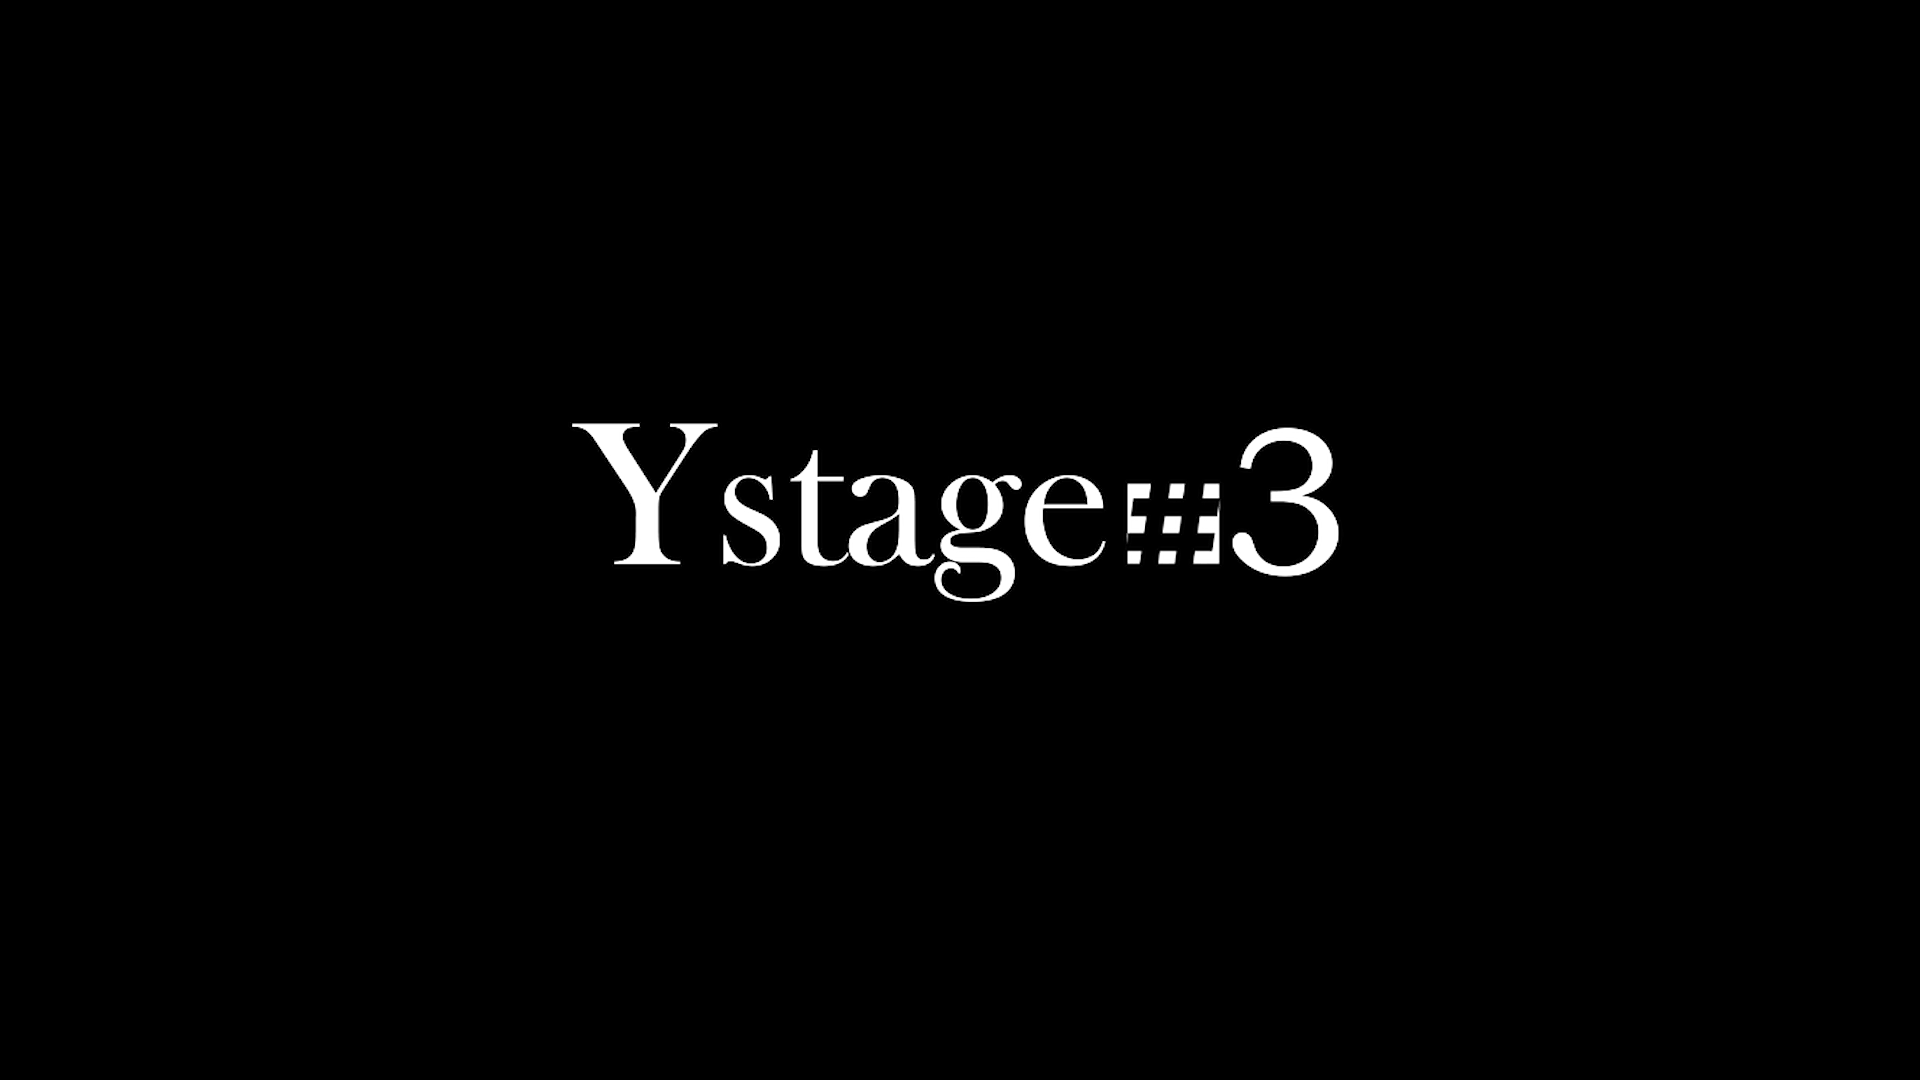
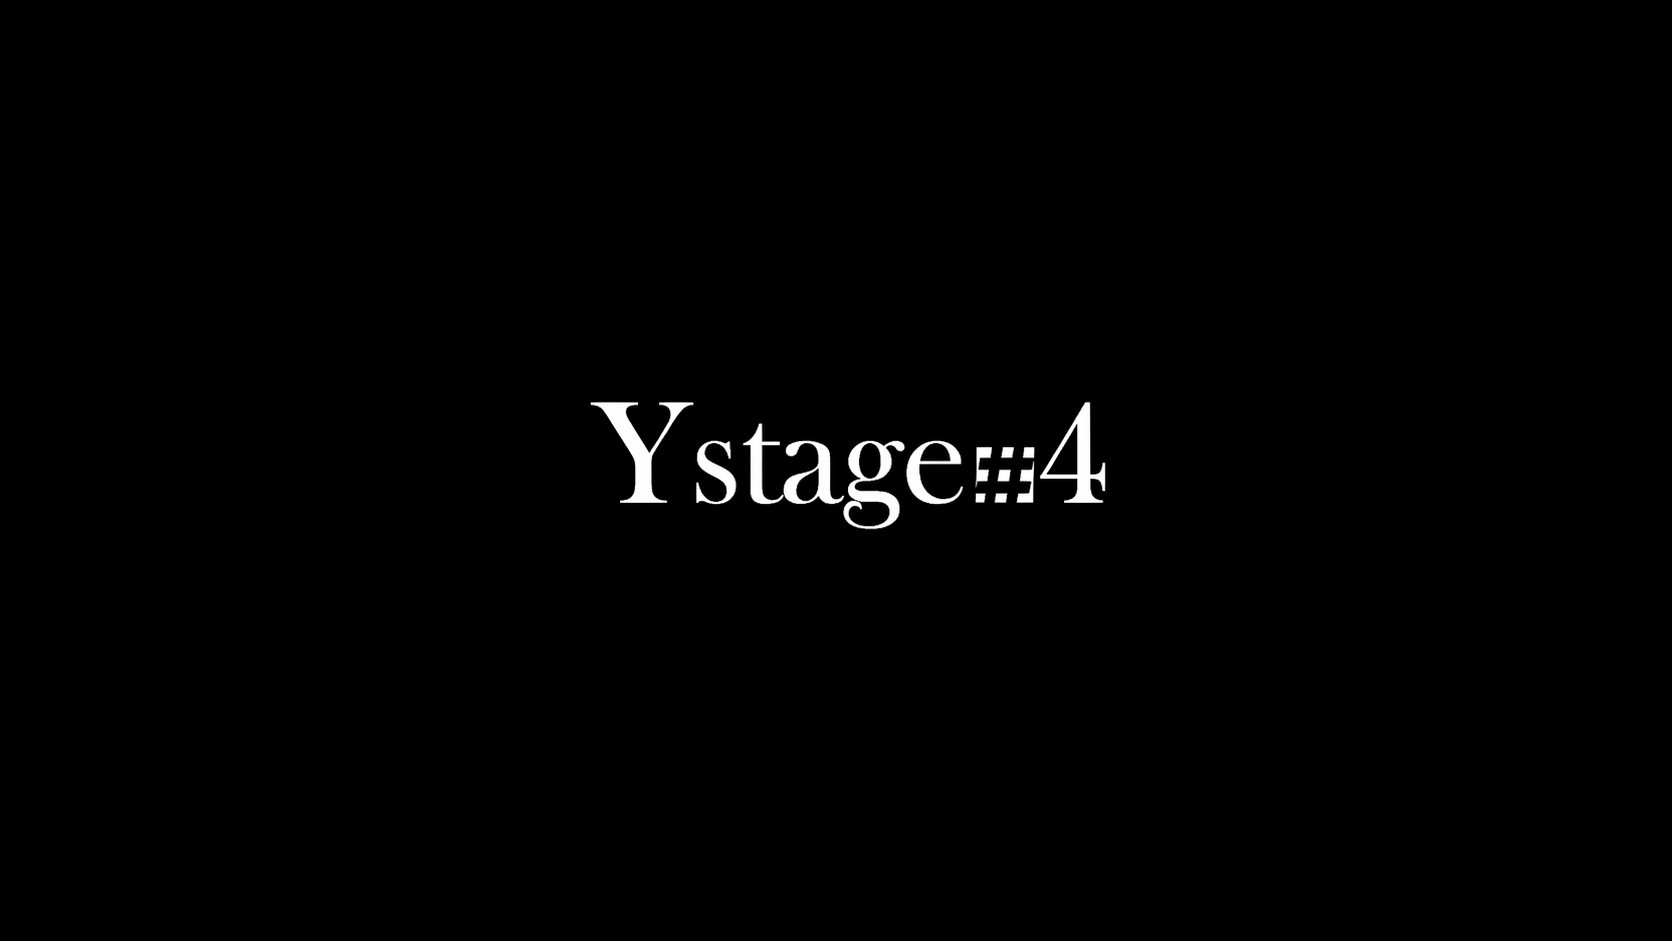
Y.Stage 4，即将开始

Changed region(s): [[0.2799, 0.3698, 0.7153, 0.5855]]

diff --git a/html/index.html b/html/index.html
@@ -14,9 +14,9 @@
     <div class="container">
       <!-- 主容器 -->
       <header>
-        <h1>2025 Y.Stage 3</h1>
+        <h1>2025 Y.Stage 4</h1>
         <!-- 网站名称 -->
-        <p>欢迎来到 2025年异度沸腾WOTA艺团 Y.Stage 3 比赛现场</p>
+        <p>欢迎来到 2025年异度沸腾WOTA艺团 Y.Stage 4 比赛现场</p>
         <!-- 欢迎信息 -->
       </header>
       <main>

diff --git a/html/setting.html b/html/setting.html
@@ -3,13 +3,13 @@
   <head>
     <meta charset="UTF-8" />
     <meta name="viewport" content="width=device-width, initial-scale=1.0" />
-    <title>Y.Stage 3 - 设置</title>
+    <title>Y.Stage 4 - 设置</title>
     <link rel="stylesheet" href="../css/setting.css" />
   </head>
   <body>
     <div class="container">
       <header>
-        <h1>Y.Stage 3 设置中心</h1>
+        <h1>Y.Stage 4 设置中心</h1>
         <p class="subtitle">管理选手、技能和奖励数据</p>
       </header>
 

diff --git a/server.js b/server.js
@@ -1,5 +1,5 @@
 /**
- * Y.Stage3 服务器主入口文件
+ * Y.Stage4 服务器主入口文件
  * 负责启动各个模块化服务
  */
 
@@ -107,7 +107,7 @@ process.stdin.on("data", async (data) => {
 });
 
 // 启动时打印使用说明
-console.log("\n=== Y.Stage3 服务器命令行操作 ===");
+console.log("\n=== Y.Stage4 服务器命令行操作 ===");
 console.log("- 输入 'test' 或 't' 运行数据库操作测试");
 console.log("- 输入 'exit' 或 'quit' 或 'q' 关闭服务器");
 console.log("- 输入 'help' 或 'h' 或 '?' 显示帮助信息");

diff --git a/html/games/moving_sth_in_times.html b/html/games/moving_sth_in_times.html
@@ -3,7 +3,7 @@
   <head>
     <meta charset="UTF-8" />
     <meta name="viewport" content="width=device-width, initial-scale=1.0" />
-    <title>Y.Stage 3 - 定时搬化棒</title>
+    <title>Y.Stage 4 - 定时搬化棒</title>
     <link rel="stylesheet" href="../../css/games/moving_sth_in_times.css" />
   </head>
   <body>

diff --git a/html/games/moving_sth_settings.html b/html/games/moving_sth_settings.html
@@ -3,7 +3,7 @@
   <head>
     <meta charset="UTF-8" />
     <meta name="viewport" content="width=device-width, initial-scale=1.0" />
-    <title>Y.Stage 3 - 定时搬化棒设置</title>
+    <title>Y.Stage 4 - 定时搬化棒设置</title>
     <link rel="stylesheet" href="../../css/games/moving_sth_in_times.css" />
     <link rel="stylesheet" href="../../css/games/moving_sth_settings.css" />
   </head>

diff --git a/html/games_select.html b/html/games_select.html
@@ -3,7 +3,7 @@
   <head>
     <meta charset="UTF-8" />
     <meta name="viewport" content="width=device-width, initial-scale=1.0" />
-    <title>Y.Stage 3 - 游戏中心</title>
+    <title>Y.Stage 4 - 游戏中心</title>
     <link rel="stylesheet" href="../css/games_select.css" />
   </head>
   <body>

diff --git a/html/musics_settings.html b/html/musics_settings.html
@@ -3,7 +3,7 @@
   <head>
     <meta charset="UTF-8" />
     <meta name="viewport" content="width=device-width, initial-scale=1.0" />
-    <title>Y.Stage 3 - 音乐导入管理</title>
+    <title>Y.Stage 4 - 音乐导入管理</title>
     <link rel="stylesheet" href="../css/music_settings.css" />
   </head>
   <body>

diff --git a/html/select.html b/html/select.html
@@ -3,7 +3,7 @@
   <head>
     <meta charset="UTF-8" />
     <meta name="viewport" content="width=device-width, initial-scale=1.0" />
-    <title>Y.Stage 3</title>
+    <title>Y.Stage 4</title>
     <link rel="stylesheet" href="../css/select.css" />
   </head>
   <body>

diff --git a/技术.md b/技术.md
@@ -1,0 +1,55 @@
+# 技术概要（参考模板）
+
+> 本文总结本项目的网页实现方法与可迁移思路，便于在其他项目复用。
+
+## 核心栈
+
+- 框架：Next.js App Router（SSR/ISR + Route Handlers + Server Components + Server Actions）
+- 语言与样式：TypeScript + Tailwind CSS
+- 数据源：本地 Excel
+- 静态资源：`public/` 目录
+- 认证：middleware 基于 Basic Auth（管理员区）
+- 测试与质量：Vitest、Playwright（E2E，占位）、Biome（Lint）
+
+## 数据与动态页面
+
+- 数据模型：可在 Excel/Sheets 中维护多张表，按需关联。
+- 数据读取：`src/shared/api` 下的适配器负责本地 Excel 读取，`src/entities/*/api.ts` 负责聚合与实体组装。
+- 动态路由：使用 `[id]` 路由 + 数据查询即可按访问时渲染页面，无需预建静态文件。
+
+## 本地离线模式（推荐开发与演示）
+
+- 环境变量示例：
+  - `USE_LOCAL_DATA=true`
+  - `LOCAL_XLSX_PATH=/abs/path/to/data.xlsx`
+- 资源放置：静态资源置于 `public/`；Excel 含所需表头。
+- 缓存注意：修改 Excel 后若未即时反映，可重启 dev。
+
+## 关键文件速览
+
+- 路由入口：`app/page.tsx`（主页） → `src/pages/home/index.tsx`
+- 后台页面：位于 `app/admin/*`，通过 Route Handlers/Server Actions 驱动表单与列表。
+- 数据访问：`src/entities/*/api.ts` 负责实体聚合；`src/shared/api` 负责数据源适配。
+- UI：`src/shared/ui/layout`、`src/shared/ui/button` 提供基础布局与按钮。
+- 认证：`middleware.ts`
+
+## 可迁移套路
+
+1. **数据可插拔**：保持数据获取在 `shared/api` 层，切换 Sheets、本地文件或其他后端时只改这一层。
+2. **动态路由驱动内容**：用 `[id]` 路由 + 数据查询，即可“自动生成”详情页。
+3. **环境变量分角色**：数据源开关、认证凭据等全部走 env，方便多环境切换。
+4. **静态资源兜底**：可先用 `public` 托管，再替换为对象存储/CDN。
+5. **UI 复用**：列表 + 详情 + 表单模式，可替换数据模型快速迁移。
+
+## 部署要点
+
+- 需要 Node/Serverless（GitHub Pages 不适合）。
+- 支持 SSR/ISR 的平台：Vercel、Netlify（Edge/Functions）、Render、AppRun 等。
+- 填好环境变量：`ADMIN_USER/PASSWORD`、数据源等。
+
+## 快速复用清单
+
+- 保留/调整目录：`app` 路由 + `src/entities|features|shared|widgets`
+- 改数据模型：更新 `entities/*/types.ts` 与 `api.ts`
+- 改数据源：实现新的 `shared/api/*` 适配器
+- 改认证：若不需要 Basic Auth，可精简 `middleware.ts` 或换 JWT/Session

diff --git a/README.md b/README.md
@@ -1,4 +1,4 @@
-# Y.Stage X-3 比赛系统
+# Y.Stage X-4 比赛系统
 
 来自 Yukari
 
@@ -28,13 +28,13 @@ Y.Stage X 是一个专为异度沸腾 WOTA 艺团设计的比赛管理软件。
 
 ### 【初学者推荐方法】直接运行程序
 
-1. 在 Y.Stage3 文件夹中找到 y-stage3.exe 文件
+1. 在 Y.Stage4 文件夹中找到 y-stage3.exe 文件
 2. 双击这个文件
 3. 稍等片刻，系统会自动启动
 
 ### 【进阶方法】从文件夹直接启动
 
-1. 在 Y.Stage3 文件夹上点击鼠标右键
+1. 在 Y.Stage4 文件夹上点击鼠标右键
 2. 选择"在终端中打开"选项
 3. 在打开的窗口中输入：`node server-lowdb.js`
 4. 按回车键，当看到"服务器已启动，运行在 http://localhost:3000"的提示时，说明启动成功了
@@ -43,8 +43,8 @@ Y.Stage X 是一个专为异度沸腾 WOTA 艺团设计的比赛管理软件。
 
 1. 按下键盘上的 Win 键(Windows 图标键)和 R 键
 2. 在弹出的小窗口中输入 `cmd` 后按回车键
-3. 输入 `cd 空格`，然后输入 Y.Stage3 文件夹的位置，例如：  
-   `cd d:\Code\HTML\Y.Stage3`
+3. 输入 `cd 空格`，然后输入 Y.Stage4 文件夹的位置，例如：  
+   `cd d:\Code\HTML\Y.Stage4`
 4. 按回车键后，再输入：`node server-lowdb.js`
 5. 按回车键，当看到"服务器已启动，运行在 http://localhost:3000"的提示时，说明启动成功了
 
@@ -53,7 +53,7 @@ Y.Stage X 是一个专为异度沸腾 WOTA 艺团设计的比赛管理软件。
 1. 确保系统已经启动（看到上面提到的提示信息）
 2. 打开浏览器（推荐使用 Chrome 或 Edge 最新版本）
 3. 在浏览器的地址栏中输入：`http://localhost:3000`
-4. 按回车键，就能看到 Y.Stage 3 的主页面了
+4. 按回车键，就能看到 Y.Stage 4 的主页面了
 5. 在启动系统的命令窗口中：
    - 输入 `help` 或 `h` 或 `?` 可以查看帮助信息
    - 输入 `exit` 或 `q` 可以正常退出系统
@@ -188,7 +188,7 @@ Y.Stage X 是一个专为异度沸腾 WOTA 艺团设计的比赛管理软件。
 
 4. 比赛结束后，及时备份所有数据文件
 
-⚠️ ** 重要提示 **：在进行大改动前，建议先备份整个 Y.Stage3 文件夹，以防数据丢失！
+⚠️ ** 重要提示 **：在进行大改动前，建议先备份整个 Y.Stage4 文件夹，以防数据丢失！
 
 ## 八、系统特点
 
@@ -246,13 +246,13 @@ Y.Stage X 是一个专为异度沸腾 WOTA 艺团设计的比赛管理软件。
 
 ### 【初学者推荐方法】直接运行程序
 
-1. 在 Y.Stage3 文件夹中找到 y-stage3.exe 文件
+1. 在 Y.Stage4 文件夹中找到 y-stage3.exe 文件
 2. 双击这个文件
 3. 稍等片刻，系统会自动启动
 
 ### 【进阶方法】从文件夹直接启动
 
-1. 在 Y.Stage3 文件夹上点击鼠标右键
+1. 在 Y.Stage4 文件夹上点击鼠标右键
 2. 选择"在终端中打开"选项
 3. 在打开的窗口中输入：`node server-lowdb.js`
 4. 按回车键，当看到"服务器已启动，运行在 http://localhost:3000"的提示时，说明启动成功了
@@ -261,8 +261,8 @@ Y.Stage X 是一个专为异度沸腾 WOTA 艺团设计的比赛管理软件。
 
 1. 按下键盘上的 Win 键(Windows 图标键)和 R 键
 2. 在弹出的小窗口中输入 `cmd` 后按回车键
-3. 输入 `cd 空格`，然后输入 Y.Stage3 文件夹的位置，例如：  
-   `cd d:\Code\HTML\Y.Stage3`
+3. 输入 `cd 空格`，然后输入 Y.Stage4 文件夹的位置，例如：  
+   `cd d:\Code\HTML\Y.Stage4`
 4. 按回车键后，再输入：`node server-lowdb.js`
 5. 按回车键，当看到"服务器已启动，运行在 http://localhost:3000"的提示时，说明启动成功了
 
@@ -271,7 +271,7 @@ Y.Stage X 是一个专为异度沸腾 WOTA 艺团设计的比赛管理软件。
 1. 确保系统已经启动（看到上面提到的提示信息）
 2. 打开浏览器（推荐使用 Chrome 或 Edge 最新版本）
 3. 在浏览器的地址栏中输入：`http://localhost:3000`
-4. 按回车键，就能看到 Y.Stage 3 的主页面了
+4. 按回车键，就能看到 Y.Stage 4 的主页面了
 5. 在启动系统的命令窗口中：
    - 输入 `help` 或 `h` 或 `?` 可以查看帮助信息
    - 输入 `exit` 或 `q` 可以正常退出系统
@@ -387,7 +387,7 @@ Y.Stage X 是一个专为异度沸腾 WOTA 艺团设计的比赛管理软件。
 
 4. 比赛结束后，及时备份所有数据文件
 
-⚠️ ** 重要提示 **：在进行大改动前，建议先备份整个 Y.Stage3 文件夹，以防数据丢失！
+⚠️ ** 重要提示 **：在进行大改动前，建议先备份整个 Y.Stage4 文件夹，以防数据丢失！
 
 ## 八、系统特点
 